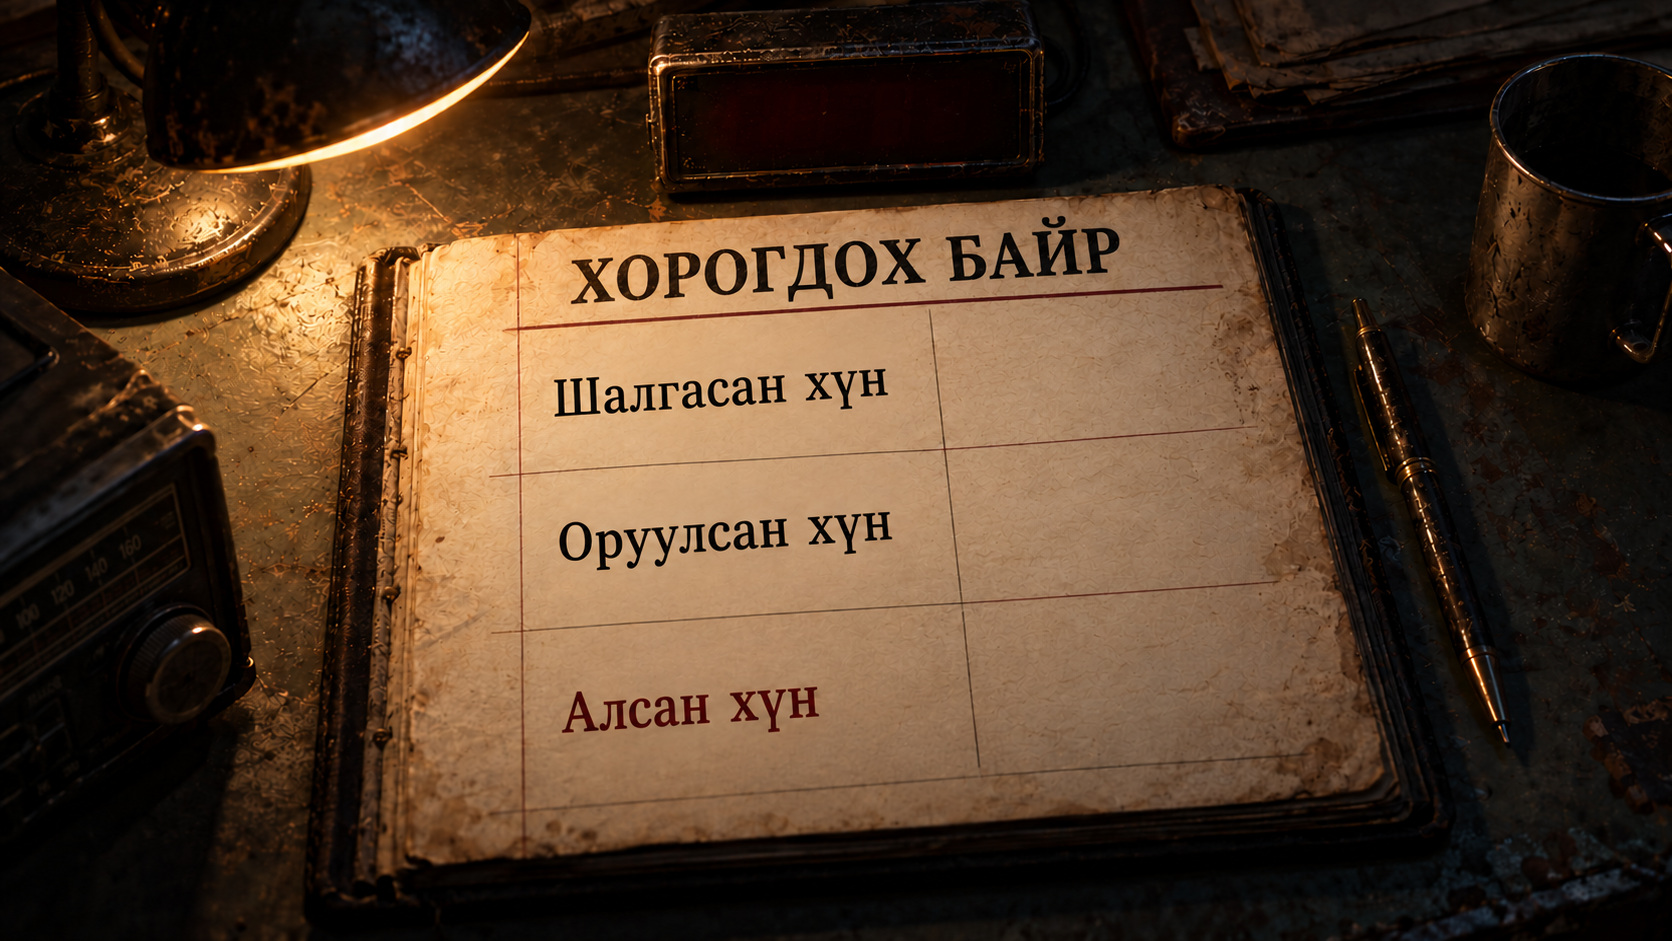
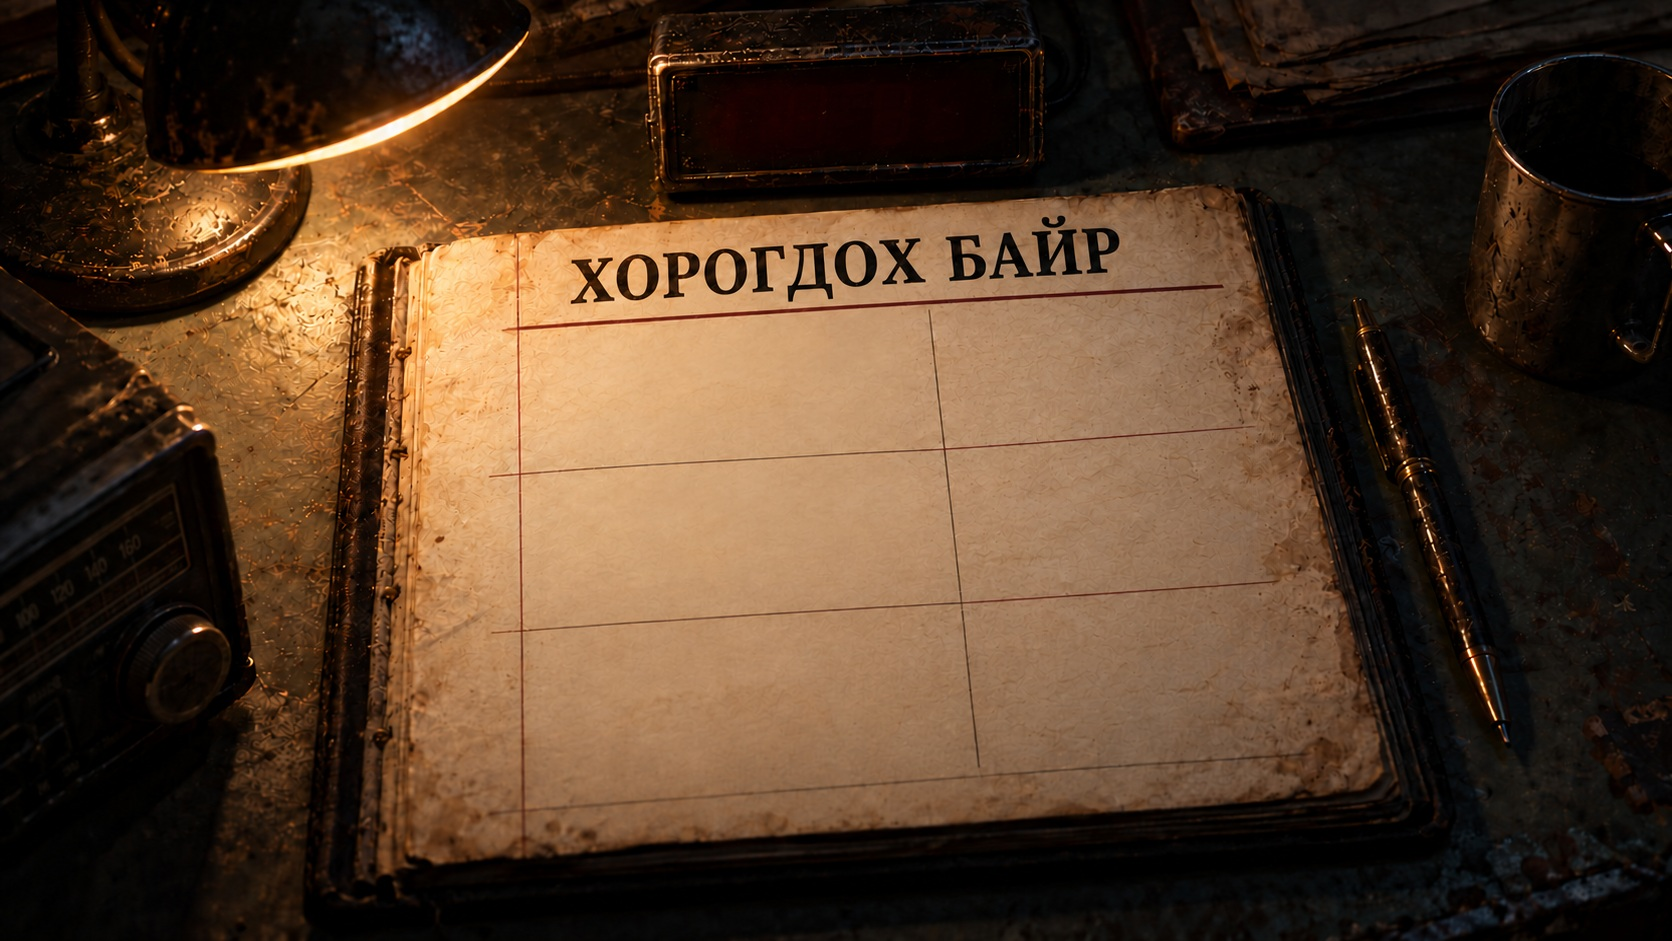
Show civilian rejection and death counts on the angled ledger (#40)

diff --git a/tools/build_ledger_fonts.py b/tools/build_ledger_fonts.py
@@ -1,6 +1,6 @@
 """Build the small digit fonts used by the ledger and its physical clock.
 
-Usage: python tools/build_ledger_fonts.py /path/to/DejaVuSerif-Bold.ttf
+Usage: python tools/build_ledger_fonts.py /path/to/DejaVuSerif-Bold.ttf [/path/to/DejaVuSerif.ttf]
 Requires fonttools. The seven-segment glyphs are original geometric artwork;
 the ledger digits are a renamed DejaVu subset (see game/fonts/DejaVu-LICENSE.txt).
 """
@@ -75,7 +75,24 @@ def ledger_font(source):
     font.save(DEST / "ShelterLedgerDigits.ttf")
 
 
+def ledger_label_font(source):
+    font = TTFont(source)
+    options = subset.Options()
+    options.name_IDs = [0, 1, 2, 3, 4, 5, 6, 13, 14]
+    options.name_languages = [0x409]
+    cutter = subset.Subsetter(options=options)
+    cutter.populate(text="Шалгасан хүн Хөөж явуулсан энгийн иргэн Алсан")
+    cutter.subset(font)
+    for record in font["name"].names:
+        values = {1: "Shelter Ledger Labels", 2: "Regular", 3: "ShelterLedgerLabels-Regular-1", 4: "Shelter Ledger Labels Regular", 6: "ShelterLedgerLabels-Regular"}
+        if record.nameID in values:
+            record.string = values[record.nameID].encode(record.getEncoding())
+    font.save(DEST / "ShelterLedgerLabels.ttf")
+
+
 if __name__ == "__main__":
     DEST.mkdir(parents=True, exist_ok=True)
     clock_font()
     ledger_font(sys.argv[1])
+    if len(sys.argv) > 2:
+        ledger_label_font(sys.argv[2])

diff --git a/tools/art/civilian-ledger.md b/tools/art/civilian-ledger.md
@@ -1,0 +1,41 @@
+# Civilian ledger update
+
+The three live rows are checked people, expelled civilians, and civilians killed
+by the player. Monster outcomes do not contribute to the latter two. Expelled
+civilians are derived from saved outcomes, including armored Orgil leaving after
+a nonlethal shot and the civilian man lost when both Deeremchin visitors are
+expelled. The existing combined-mistake rule is unchanged.
+
+Digits use 92px (70% of the former 132px, rounded to a pixel), no synthetic italic,
+and a -4 degree baseline. Their centers progress down the notebook's sloped
+column: (1260, 444), (1284, 622), (1308, 804), in the 1920x1080 game canvas.
+Labels use a renamed DejaVu Serif subset under the existing DejaVu license;
+`tools/build_ledger_fonts.py` accepts its regular font as the second argument.
+
+## Background edit
+
+- Method: built-in ImageGen, precise-object-edit.
+- Edit target: the existing `game/gui/shelter/intermission/ledger.jpg`.
+- User reference: `image(20261022-123556).png`, showing the same ledger in game.
+- Output: `game/gui/shelter/intermission/ledger.jpg`, converted to JPEG quality 94.
+- Native screenshot: `tools/previews/civilian-ledger.jpg`.
+
+Prompt:
+
+> Use case: precise-object-edit. Asset: existing horror game ledger background,
+> exact 16:9 composition. Edit target is the attached ledger image. Remove ONLY
+> the three row labels inside the notebook: 'Шалгасан хүн', 'Оруулсан хүн', and
+> 'Алсан хүн'. Seamlessly reconstruct the worn amber paper texture in those letter
+> areas. Leave the three table rows and all dividing lines fully intact and in
+> exactly the same positions. Preserve the heading 'ХОРОГДОХ БАЙР' exactly, the
+> empty digital clock face, notebook outline, camera perspective and tilt, lamp,
+> pen, cup, radio, light and shadows, colors and all other details. Keep the right
+> numeric cells blank. No added text, no numbers, no design changes, no cropping
+> or reframing. Output a clean blank-row plate, matching the input 16:9 aspect ratio.
+
+## Verification
+
+The native ledger clock/save-load test exercises civilian rejection, monster
+shooting and rejection, civilian admission, Orgil's nonlethal departure, civilian
+killing, pair rejection, and repeated outcomes. A native screenshot verifies the
+labels and perspective. Original media and encounter transitions are unchanged.
